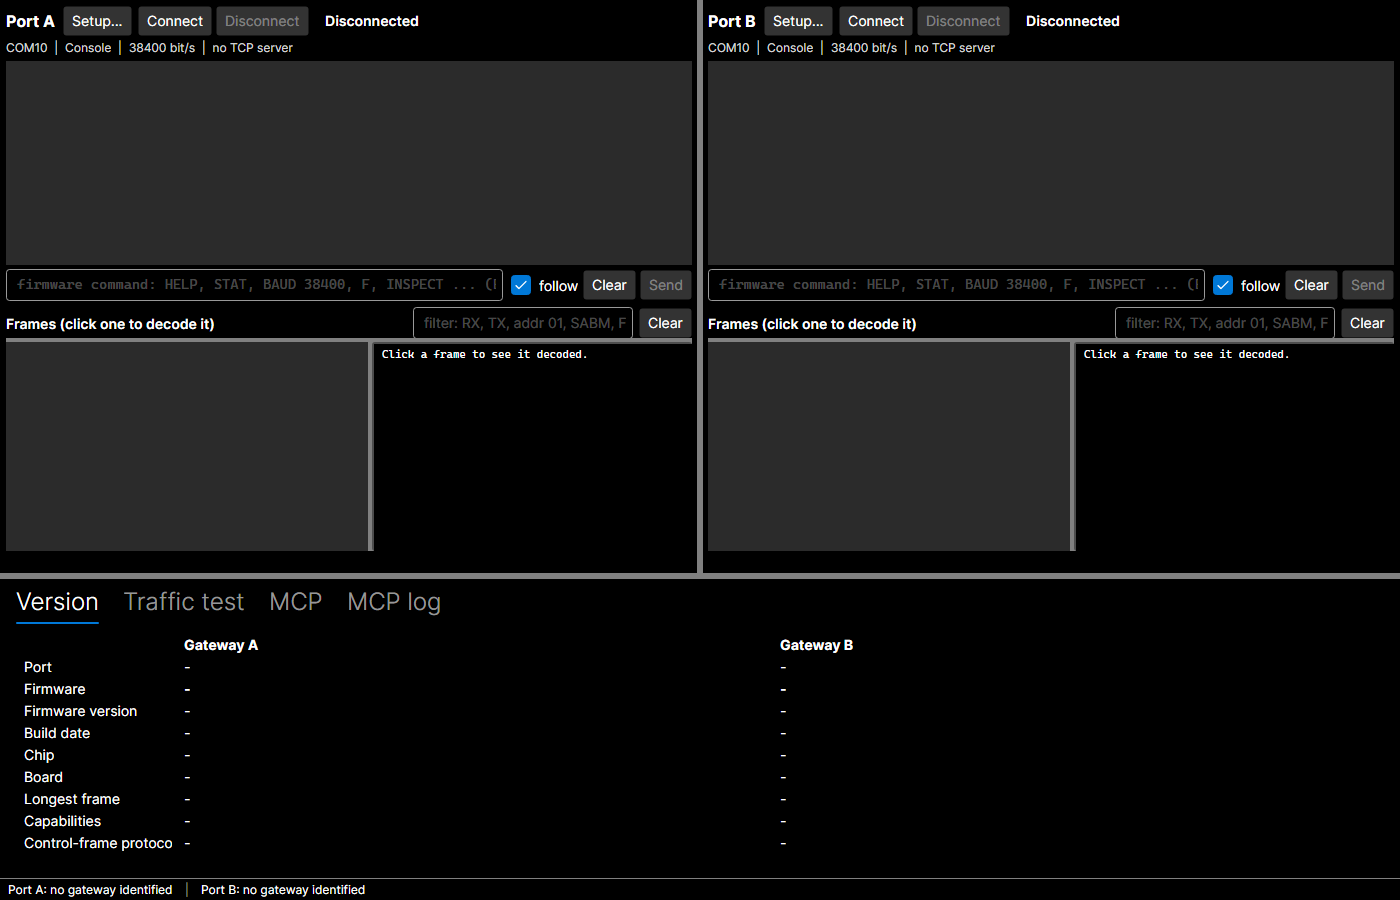
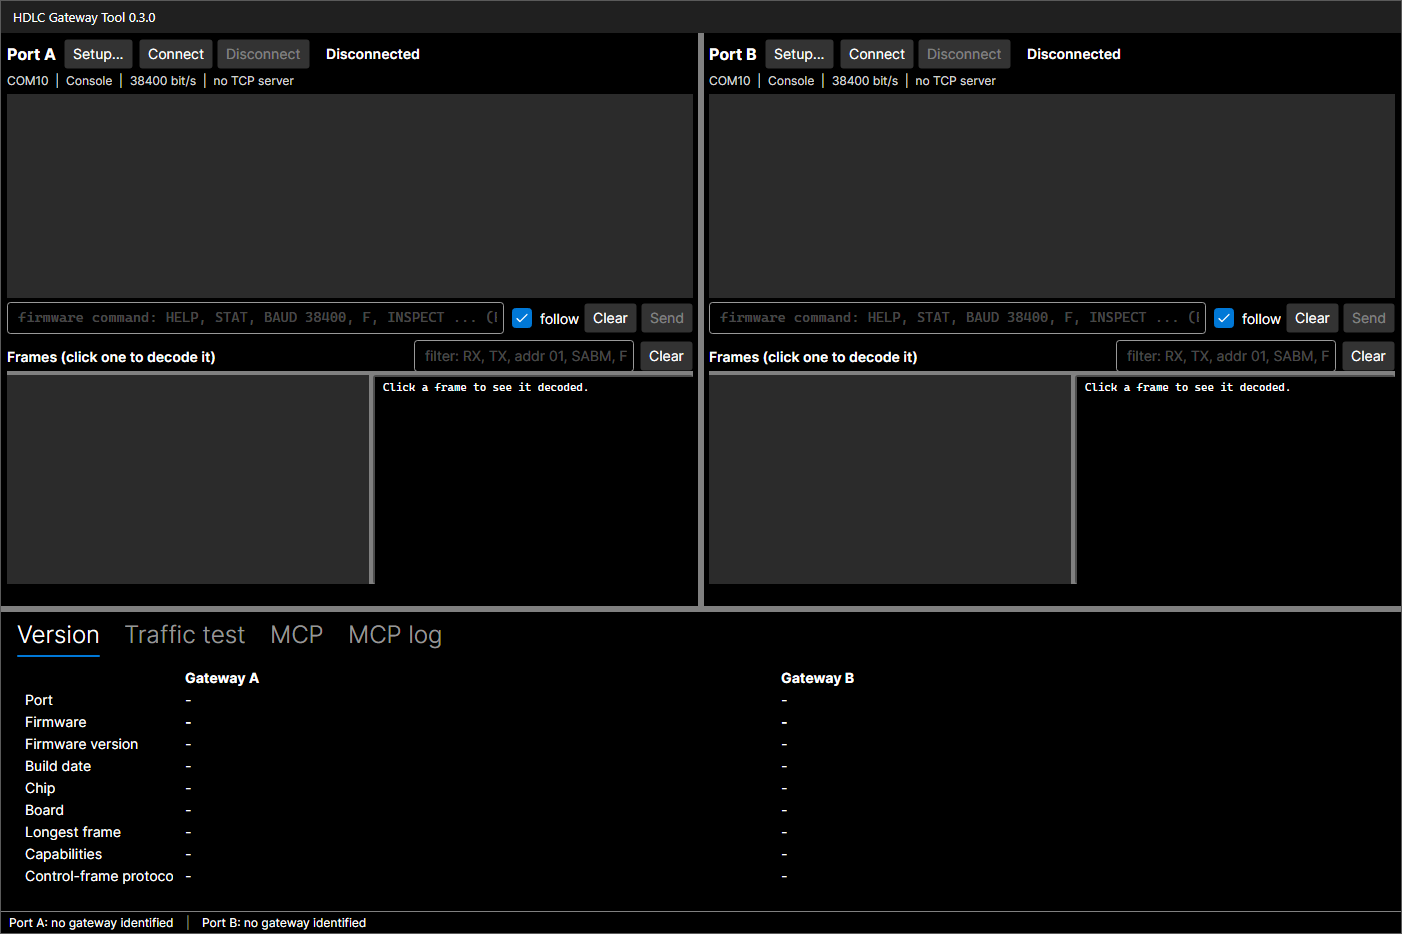
Screenshots: draw a window frame around each picture
The off-screen capture holds only the window's inside, so the pictures ran
straight into the README page. The picture test now draws a border and a
title line with the window's own title, in light and dark colours, and the
twelve pictures are made again.

diff --git a/src/tests/HdlcGatewayTest.App.Tests/Screenshots.cs b/src/tests/HdlcGatewayTest.App.Tests/Screenshots.cs
@@ -2,9 +2,11 @@
 // SPDX-License-Identifier: MIT
 // Copyright (c) 1985-2026 Ronny Hansen
 
+using System.Globalization;
 using Avalonia;
 using Avalonia.Controls;
 using Avalonia.Headless;
+using Avalonia.Media;
 using Avalonia.Media.Imaging;
 using Avalonia.Styling;
 using Avalonia.Threading;
@@ -170,12 +172,42 @@ public sealed class Screenshots
         }
     }
 
+    /// <summary>Height of the drawn title line, in pixels.</summary>
+    private const int TitleHeight = 32;
+
+    /// <summary>Width of the drawn border, in pixels.</summary>
+    private const int BorderWidth = 1;
+
+    /// <summary>
+    /// Save the window's picture inside a drawn window frame: a border and a title line with the
+    /// window's own title. A headless capture holds only the client area, and without the frame
+    /// the picture ran straight into the README page around it (Ronny, 21 November 2026: "it flows
+    /// into the text and it's confusing"). The colours follow Windows 11's own frame in the light
+    /// and the dark theme.
+    /// </summary>
     private void Save(Window window, string name, string theme)
     {
         PumpFor(100);
         using WriteableBitmap? frame = window.CaptureRenderedFrame();
         Assert.That(frame, Is.Not.Null, name);
-        frame!.Save(Path.Combine(_outDir, name + "-" + theme + ".png"), PngBitmapEncoderOptions.Default);
+        bool dark = theme == "dark";
+        PixelSize inner = frame!.PixelSize;
+        PixelSize outer = new PixelSize(inner.Width + (2 * BorderWidth), inner.Height + TitleHeight + (2 * BorderWidth));
+        using RenderTargetBitmap framed = new RenderTargetBitmap(outer, new Vector(96, 96));
+        using (DrawingContext dc = framed.CreateDrawingContext())
+        {
+            SolidColorBrush border = new SolidColorBrush(dark ? Color.FromRgb(0x5A, 0x5A, 0x5A) : Color.FromRgb(0x9A, 0x9A, 0x9A));
+            SolidColorBrush bar = new SolidColorBrush(dark ? Color.FromRgb(0x20, 0x20, 0x20) : Color.FromRgb(0xF3, 0xF3, 0xF3));
+            IBrush text = dark ? Brushes.White : Brushes.Black;
+            dc.FillRectangle(border, new Rect(0, 0, outer.Width, outer.Height));
+            dc.FillRectangle(bar, new Rect(BorderWidth, BorderWidth, inner.Width, TitleHeight));
+            FormattedText title = new FormattedText(window.Title ?? string.Empty, CultureInfo.InvariantCulture,
+                                                    FlowDirection.LeftToRight, new Typeface(FontFamily.Default), 13, text);
+            dc.DrawText(title, new Point(BorderWidth + 12, BorderWidth + ((TitleHeight - title.Height) / 2)));
+            dc.DrawImage(frame, new Rect(0, 0, inner.Width, inner.Height),
+                         new Rect(BorderWidth, BorderWidth + TitleHeight, inner.Width, inner.Height));
+        }
+        framed.Save(Path.Combine(_outDir, name + "-" + theme + ".png"), PngBitmapEncoderOptions.Default);
     }
 
     private static void SelectTab(Window window, string header)
